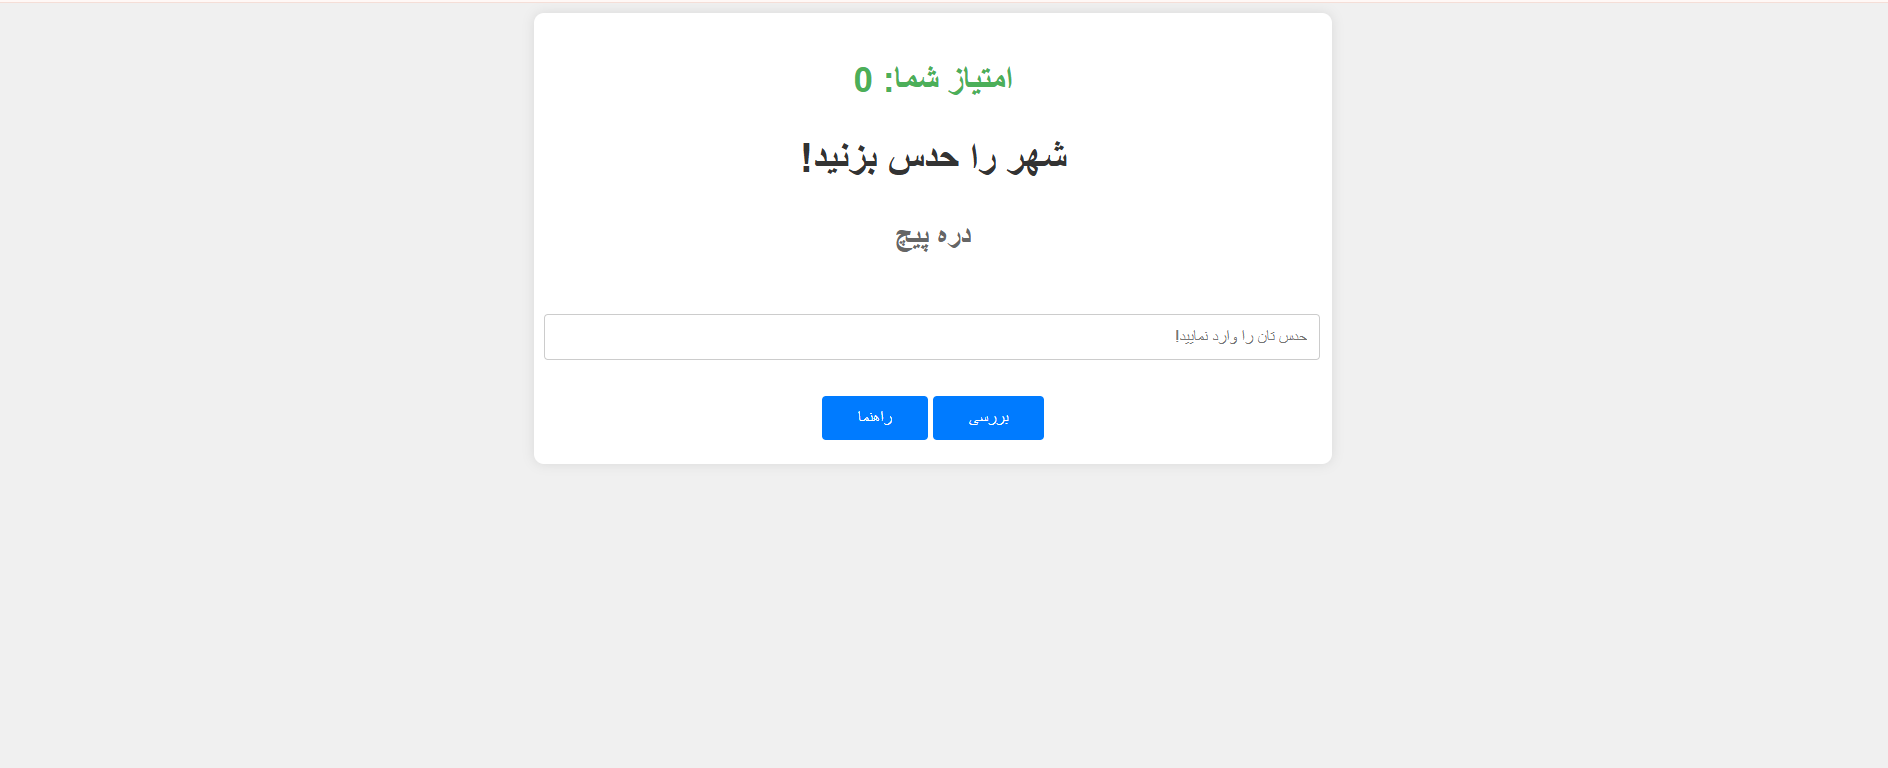
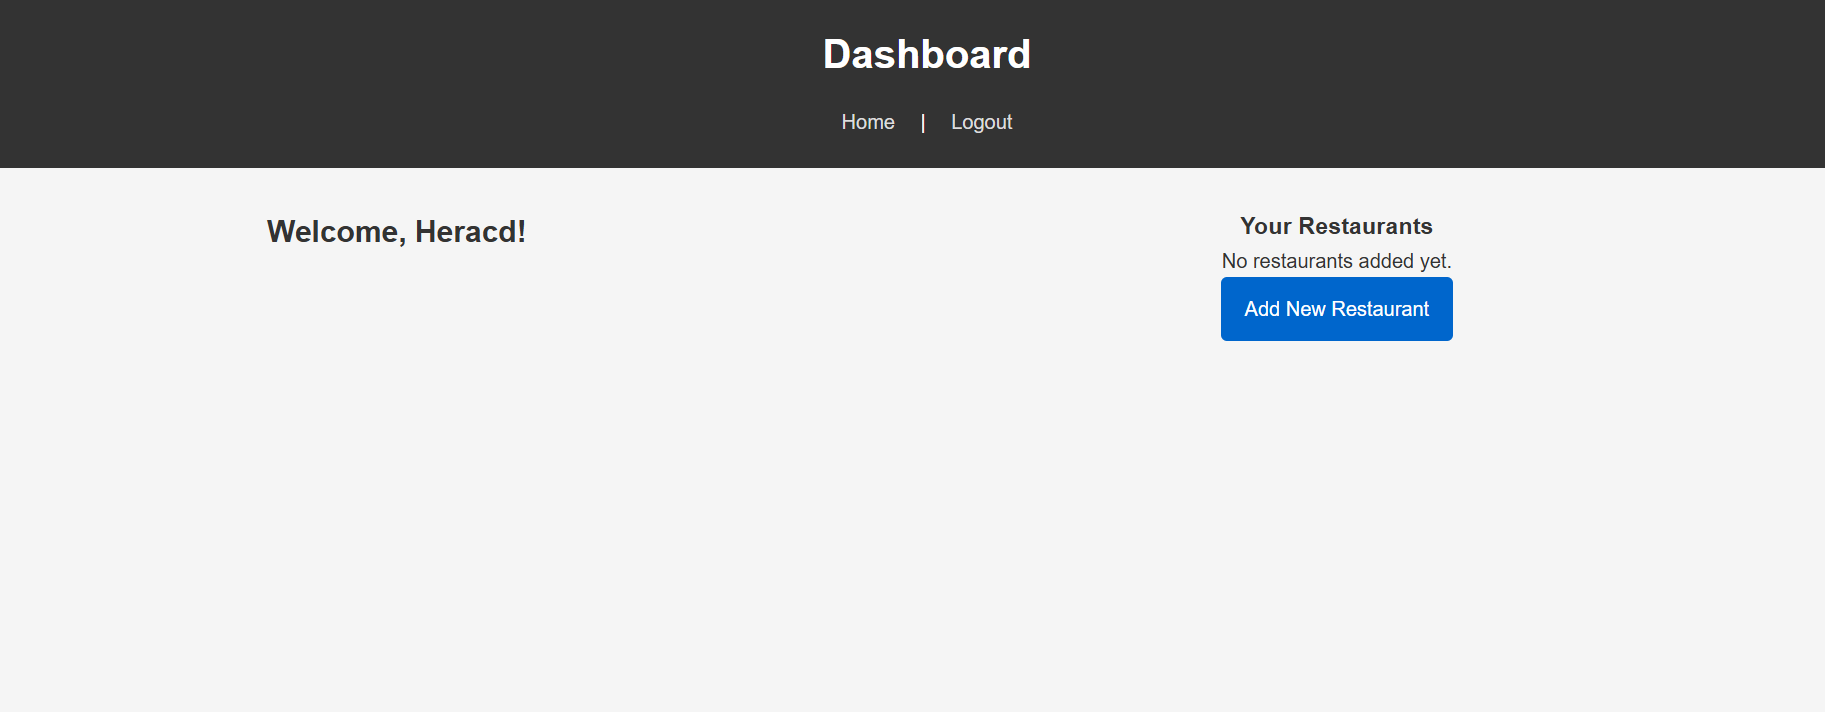
Update README

diff --git a/README.md b/README.md
@@ -1,84 +1,33 @@
-# 🗺 Afghanistan District Guessing Game
+# 🍽 FoodieHub
 
-This is a Node.js + Express web application that connects to a PostgreSQL database to run a province-guessing game based on Afghanistan’s districts. Users are shown a random district and must guess the correct province. The app keeps score and offers hints based on regions.
+FoodieHub is a full-stack restaurant and menu management web application built with Node.js, Express, PostgreSQL, and EJS. Users can register, log in, and manage restaurants and menu items via a user-friendly dashboard.
 
 ![District Guessing Game Screenshot](./public/images/image.png)
 
-## Here’s a **refactored `README.md`** based on your code and its functionality:
+---
 
 ## 🚀 Features
 
-- Express server setup with EJS templating
-- PostgreSQL connection using `pg`'s `Pool` for efficient querying
-- Fetches district data from the `"Districts"` table
-- Province guessing logic with score tracking
-- Optional region-based hints
-- Game over and reset functionality
-- Basic frontend styling via static CSS
+- 📝 User Registration & Login (with bcrypt password hashing)
+- 📊 User Dashboard to view added restaurants
+<!-- - ➕ Add, Edit, Delete restaurants and menu items -->
+- 💡 EJS templating with clean responsive styling
+<!-- - 🔐 Secure password storage with `bcrypt` -->
 
 ---
 
-## 🧠 How the Game Works
+## 🛠 Tech Stack
 
-1. A random district is selected from the database.
-2. The user must input the correct province for that district.
-3. If correct → score increases.
-4. If incorrect → score decreases.
-5. If the score falls below 0 → redirected to the game over screen.
-6. Hint button reveals the region for the current district.
+- **Backend:** Node.js, Express.js
+- **Frontend:** EJS, CSS
+- **Database:** PostgreSQL
 
 ---
 
-## 🛠 Setup & Installation
+## 📦 Installation
 
-1. **Clone the repository:**
-
-```bash
-git clone https://github.com/your-username/afghanistan-district-game.git
-cd afghanistan-district-game
-```
-
-2. **Install dependencies:**
-
-```bash
-npm install
-```
-
-3. **Set up PostgreSQL database:**
-
-Create a table named `"Districts"` with the following columns:
-
-```sql
-CREATE TABLE "Districts" (
-  id SERIAL PRIMARY KEY,
-  region TEXT,
-  province TEXT,
-  district TEXT
-);
-```
-
-Then, populate it with data.
-
-4. **Configure database connection:**
-
-Update this section in `index.js` with your credentials:
-
-```js
-const pool = new Pool({
-  user: "postgres",
-  host: "localhost",
-  database: "Afghanistan",
-  password: "your_password",
-  port: 5432,
-});
-```
-
-5. **Run the app:**
-
-```bash
-node server.js
-```
-
-Then open [http://localhost:3000](http://localhost:3000) in your browser.
-
----
+1. **Clone the repo**
+   ```bash
+   git clone https://github.com/elhamatokhi/CTI-Practice.git
+   cd CTI-Practice
+   ```
